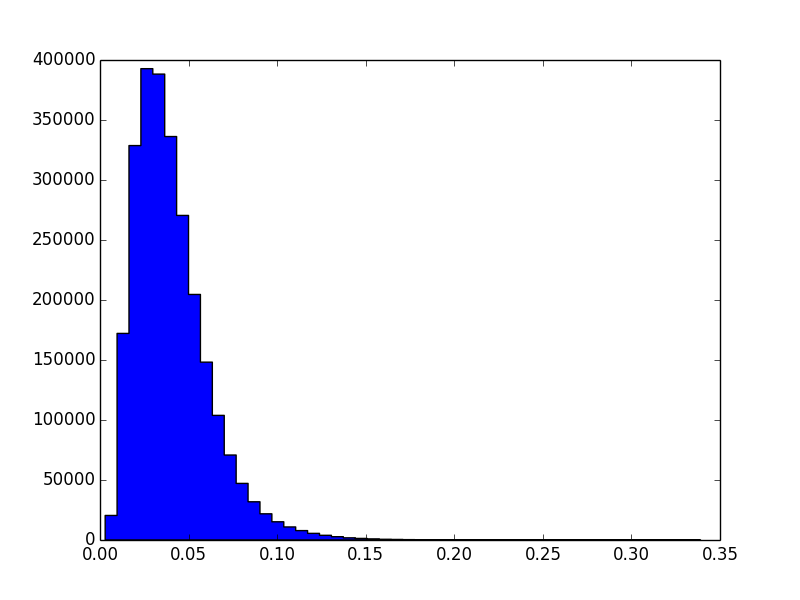
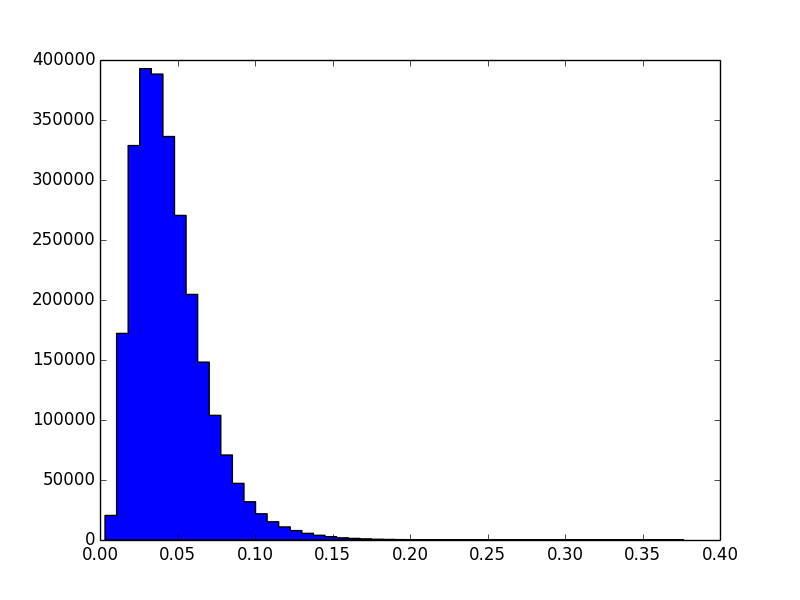
debugging sigma_opt, btfutil.py, and new images
sigma_opt.py:
    added debugging cutoffs. Now only reads up to DEBUG_MAXLINES lines of
    data (less if the files are shorter). See "dispAvgDistHist.py" for
    usage.

btfutil.py:
    A python version of BTFUtil.java from biosim2. Handles parsing
    directories for btf files, and delayed loading of data. Currently,
    data is loaded as list-of-lines, as text. Considering moving to
    numpy arrays in future.

dispAvgDistHist.py:
    Updated to use new btfutil and sigma_opt DEBUG code, now checks to see
    if the weighted data exists as btf columns before recomputing it from
    nvec, nori, and wallvec. Also now correctly ignores lines for which
    dbool is false.

diff --git a/sigma_opt.py b/sigma_opt.py
@@ -12,6 +12,8 @@ memoized = {}
 
 wait_time = 5.0 # in seconds
 
+DEBUG_MAXLINES = -1
+
 def load_data(nvec_fname, nori_fname, obs_fname, b_fname):
 	global DATA_neighbor_x, DATA_neighbor_y, DATA_neighbor_ori, DATA_obs_vec, DATA_b
 	DATA_neighbor_y = list()
@@ -20,7 +22,7 @@ def load_data(nvec_fname, nori_fname, obs_fname, b_fname):
 	DATA_obs_vec = list()
 	DATA_b = list()
 	print "Loading",nvec_fname
-	lines = open(nvec_fname).readlines()
+	lines = open(nvec_fname).readlines()[:DEBUG_MAXLINES]
 	num_lines = len(lines)
 	last_checked = time.time()
 	last_line_idx = 0
@@ -36,7 +38,7 @@ def load_data(nvec_fname, nori_fname, obs_fname, b_fname):
 			last_checked = cur_time
 			last_line_idx = idx
 	print "Loading", nori_fname
-	lines = open(nori_fname).readlines()
+	lines = open(nori_fname).readlines()[:DEBUG_MAXLINES]
 	num_lines = len(lines)
 	last_checked = time.time()
 	last_line_idx = 0
@@ -49,11 +51,29 @@ def load_data(nvec_fname, nori_fname, obs_fname, b_fname):
 			last_checked = cur_time
 			last_line_idx = idx
 	print "Loading",obs_fname
-	DATA_obs_vec = numpy.array([map(float,l.split()) for l in open(obs_fname).readlines()])
+	DATA_obs_vec = numpy.array([map(float,l.split()) for l in open(obs_fname).readlines()[:DEBUG_MAXLINES]])
 	print "Loading",b_fname
-	DATA_b = numpy.array([map(float,l.split()) for l in open(b_fname).readlines()])
+	DATA_b = numpy.array([map(float,l.split()) for l in open(b_fname).readlines()[:DEBUG_MAXLINES]])
 	print "Done loading"
 
+def filter_dbool(dbool_fname):
+	global DATA_b, DATA_obs_vec, DATA_neighbor_x, DATA_neighbor_y, DATA_neighbor_ori
+	print "Filtering from",dbool_fname
+	filt = map(lambda x: x.strip() == 'True', open(dbool_fname).readlines()[:DEBUG_MAXLINES])
+	print "filtering DATA_b"
+	# DATA_b = DATA_b[filt]
+	DATA_b = numpy.array(filter(lambda d: not(d is None), map(lambda foo,bar: bar if foo else None, filt, DATA_b)))
+	print "filtering DATA_obs_vec"
+	# DATA_obs_vec = DATA_obs_vec[filt]
+	DATA_obs_vec = numpy.array(filter(lambda d: not(d is None), map(lambda foo,bar: bar if foo else None, filt, DATA_obs_vec)))
+	print "filtering DATA_neighbor_x"
+	DATA_neighbor_x = filter(lambda d: not(d is None), map(lambda foo,bar: bar if foo else None, filt, DATA_neighbor_x))
+	print "filtering DATA_neighbor_y"
+	DATA_neighbor_y = filter(lambda d: not(d is None), map(lambda foo,bar: bar if foo else None, filt, DATA_neighbor_y))
+	print "filtering DATA_neighbor_ori"
+	DATA_neighbor_ori = filter(lambda d: not(d is None), map(lambda foo,bar: bar if foo else None, filt, DATA_neighbor_ori))
+	print "Done filtering"
+	# print map(len, [DATA_neighbor_x, DATA_neighbor_y, DATA_neighbor_ori, DATA_obs_vec, DATA_b] )
 
 def rotate(x,y,theta):
 	x=float(x)
@@ -63,26 +83,44 @@ def rotate(x,y,theta):
 	yprime = (x*math.sin(theta))+(y*math.cos(theta))
 	return xprime,yprime
 
+def weightedData(sigmas):
+	sep_sigma, ori_sigma, coh_sigma, wall_sigma = sigmas
+	num_lines = len(DATA_neighbor_x)
+	xs = DATA_neighbor_x
+	ys = DATA_neighbor_y
+
+	sep_weights = map(lambda x,y: weights(x,y,sep_sigma), xs, ys)
+	ori_weights = map(lambda x,y: weights(x,y,ori_sigma), xs, ys)
+	coh_weights = map(lambda x,y: weights(x,y,coh_sigma), xs, ys)
+	wall_weights = map(lambda x,y: weights(x,y,wall_sigma), DATA_obs_vec[:,0], DATA_obs_vec[:,1])
+
+	sep = map(sep_vec,sep_weights,xs,ys)
+	ori = map(ori_vec,ori_weights,DATA_neighbor_ori)
+	coh = map(sep_vec,coh_weights,xs,ys)
+	obs = map(lambda weight, x, y: (weight*x,weight*y),wall_weights,DATA_obs_vec[:,0],DATA_obs_vec[:,1])
+	return sep, ori, coh, obs
+
 def optimize(sigmas):
 	global num_evals, memoized
 	num_evals = num_evals+1
 	print "Eval #"+str(num_evals), "Testing sigmas:",sigmas
 	if tuple(sigmas) in memoized:
 		return memoized[tuple(sigmas)]
-	sep_sigma, ori_sigma, coh_sigma, wall_sigma = sigmas
-	num_lines = len(DATA_neighbor_x)
-	xs = DATA_neighbor_x
-	ys = DATA_neighbor_y
+	# sep_sigma, ori_sigma, coh_sigma, wall_sigma = sigmas
+	# num_lines = len(DATA_neighbor_x)
+	# xs = DATA_neighbor_x
+	# ys = DATA_neighbor_y
 
-	sep_weights = map(weights,xs,ys,(sep_sigma,)*num_lines)
-	ori_weights = map(weights,xs,ys,(ori_sigma,)*num_lines)
-	coh_weights = map(weights,xs,ys,(coh_sigma,)*num_lines)
-	wall_weights = map(weights,DATA_obs_vec[:,0],DATA_obs_vec[:,1],(wall_sigma,)*num_lines)
+	# sep_weights = map(weights,xs,ys,(sep_sigma,)*num_lines)
+	# ori_weights = map(weights,xs,ys,(ori_sigma,)*num_lines)
+	# coh_weights = map(weights,xs,ys,(coh_sigma,)*num_lines)
+	# wall_weights = map(weights,DATA_obs_vec[:,0],DATA_obs_vec[:,1],(wall_sigma,)*num_lines)
 
-	sep = map(sep_vec,sep_weights,xs,ys)
-	ori = map(ori_vec,ori_weights,DATA_neighbor_ori)
-	coh = map(sep_vec,coh_weights,xs,ys)
-	obs = map(lambda weight, x, y: (weight*x,weight*y),wall_weights,DATA_obs_vec[:,0],DATA_obs_vec[:,1])
+	# sep = map(sep_vec,sep_weights,xs,ys)
+	# ori = map(ori_vec,ori_weights,DATA_neighbor_ori)
+	# coh = map(sep_vec,coh_weights,xs,ys)
+	# obs = map(lambda weight, x, y: (weight*x,weight*y),wall_weights,DATA_obs_vec[:,0],DATA_obs_vec[:,1])
+	sep, ori, coh, obs = weightedData(sigmas)
 
 	b = DATA_b
 
@@ -116,36 +154,55 @@ class bounds(object):
 def nullmin(fun,x0,args, **kwargs):
 	return scipy.optimize.OptimizeResult(x=x0,success=True)
 
+def second_order_poly(data):
+	num_columns = data.shape[1]
+	res = list()
+	for eye in range(num_columns):
+		for jay in range(num_columns):
+			res.append(data[:,eye]*data[:,jay])
+	return res
+
 
 def runLR(sigmas):
 	sep_sigma, ori_sigma, coh_sigma, wall_sigma = sigmas
-	num_lines = len(DATA_neighbor_x)
-	xs = DATA_neighbor_x
-	ys = DATA_neighbor_y
+	# num_lines = len(DATA_neighbor_x)
+	# xs = DATA_neighbor_x
+	# ys = DATA_neighbor_y
 
-	sep_weights = map(weights,xs,ys,(sep_sigma,)*num_lines)
-	ori_weights = map(weights,xs,ys,(ori_sigma,)*num_lines)
-	coh_weights = map(weights,xs,ys,(coh_sigma,)*num_lines)
-	wall_weights = map(weights,DATA_obs_vec[:,0],DATA_obs_vec[:,1],(wall_sigma,)*num_lines)
+	# sep_weights = map(weights,xs,ys,(sep_sigma,)*num_lines)
+	# ori_weights = map(weights,xs,ys,(ori_sigma,)*num_lines)
+	# coh_weights = map(weights,xs,ys,(coh_sigma,)*num_lines)
+	# wall_weights = map(weights,DATA_obs_vec[:,0],DATA_obs_vec[:,1],(wall_sigma,)*num_lines)
 
-	sep = map(sep_vec,sep_weights,xs,ys)
-	ori = map(ori_vec,ori_weights,DATA_neighbor_ori)
-	coh = map(sep_vec,coh_weights,xs,ys)
-	obs = map(lambda weight, x, y: (weight*x,weight*y),wall_weights,DATA_obs_vec[:,0],DATA_obs_vec[:,1])
+	# sep = map(sep_vec,sep_weights,xs,ys)
+	# ori = map(ori_vec,ori_weights,DATA_neighbor_ori)
+	# coh = map(sep_vec,coh_weights,xs,ys)
+	# obs = map(lambda weight, x, y: (weight*x,weight*y),wall_weights,DATA_obs_vec[:,0],DATA_obs_vec[:,1])
 
+	# b = DATA_b
+	data_list = list(weightedData(sigmas))
+	print "Adding 2nd order poly features"
+	data_list += second_order_poly(numpy.column_stack(data_list))
 	b = DATA_b
-	return numpy.linalg.lstsq(numpy.column_stack([sep,ori,coh,obs,numpy.ones((len(sep),1))]),b)
+	# return numpy.linalg.lstsq(numpy.column_stack([sep,ori,coh,obs,numpy.ones((len(sep),1))]),b)
+	data_list.append(numpy.ones(b.shape[0]))
+	# print map(len,data_list)
+	return numpy.linalg.lstsq(numpy.column_stack(data_list),b)
 
 if __name__ == '__main__':
+	# global DEBUG_MAXLINES
+	# DEBUG_MAXLINES=200
+	# print "DEBUG_MAXLINES=",DEBUG_MAXLINES
 	load_data(sys.argv[1],sys.argv[2],sys.argv[3],sys.argv[4])
-	print "Optimizing sigmas"
-	bnds = bounds()
-	results = scipy.optimize.basinhopping(optimize,[0.1,1.5,1.5,0.1], niter=100)
-	print "Opt Results"
-	print results
-	cPickle.dump(results,open("sopt-results.p","w"))	
-	best_sigmas = results.x
-	# best_sigmas = numpy.array([0.1,1.5,1.5,0.1])
+	filter_dbool(sys.argv[5])
+	# print "Optimizing sigmas"
+	# bnds = bounds()
+	# results = scipy.optimize.basinhopping(optimize,[0.1,1.5,1.5,0.1], niter=100)
+	# print "Opt Results"
+	# print results
+	# cPickle.dump(results,open("sopt-results.p","w"))	
+	# best_sigmas = results.x
+	best_sigmas = numpy.array([0.1,1.5,1.5,1.5])
 	print "Running LR on sigmas:",best_sigmas
 	lr_results = runLR(best_sigmas)
 	print "LR Results"

diff --git a/dispAvgDistHist.py b/dispAvgDistHist.py
@@ -1,22 +1,56 @@
-import numpy, scipy, matplotlib.pyplot as plt, sys
+import numpy, scipy, matplotlib.pyplot as plt, sys, glob
 import sigma_opt
+import btfutil
 from scipy.spatial import cKDTree
 
-def main(nvec_fname, nori_fname, obs_fname, dvel_fname, dbool_fname):
-	print "Loading data"
-	sigma_opt.load_data(nvec_fname, nori_fname, obs_fname, dvel_fname)
-	print "Filtering data"
-	sigma_opt.filter(dbool_fname)
-	print "Weighting data"
-	data = numpy.array(sigma_opt.weightedData([0.1,1.5,1.5,1.5]))
+# def main2(rbfsep_fname, rbfori_fname, rbfcoh_fname, rbfwall_fname):
+# 	rbfsep = [line.split() for line in open(rbfsep_fname).readlines()]
+# 	rbfori = [line.split() for line in open(rbfori_fname).readlines()]
+# 	rbfcoh = [line.split() for line in open(rbfcoh_fname).readlines()]
+# 	rbfwall = [line.split() for line in open(rbfwall_fname).readlines()]
+# 	return numpy.column_stack([rbfsep,rbfori,rbfcoh,rbfwall])
+
+# def main(nvec_fname, nori_fname, obs_fname, dvel_fname, dbool_fname):
+# def main(rbfsep_fname, rbfori_fname, rbfcoh_fname, rbfwall_fname):
+def main(btfdata):
+	# print "DEBUG: MAXLINES=200"
+	# sigma_opt.DEBUG_MAXLINES = 200
+	data = None
+	if btfdata.has_columns(['rbfsepvec','rbforivec','rbfcohvec','rbfwallvec']):
+		rawdata = numpy.column_stack([\
+			[line.split() for line in btfdata['rbfsepvec']],\
+			[line.split() for line in btfdata['rbforivec']],\
+			[line.split() for line in btfdata['rbfcohvec']],\
+			[line.split() for line in btfdata['rbfwallvec']]])
+		data = rawdata[[line.capitalize() == 'True' for line in btfdata['dbool']]]
+	else:
+		sigma_opt.load_data(\
+			btfdata.column_filenames['nvec'],\
+			btfdata.column_filenames['nori'],\
+			btfdata.column_filenames['wallvec'],\
+			btfdata.column_filenames['dvel'])
+		sigma_opt.filter_dbool(btfdata.column_filenames['dbool'])
+		print "Weighting data"
+		data = numpy.column_stack(sigma_opt.weightedData([0.1,1.5,1.5,1.5]))
 	print "Filling KDT"
-	knn = cKDTree(features)
+	knn = cKDTree(data)
 	print "Computing avg NN distance"
-	dists = numpy.array([knn.query(row,k=10)[0].mean() for row in data])
+	# So aparantly query returns the neighbors in sorted order
+	# so we should be able to get the distances excluding the point
+	# itself by ignoring the first column
+	# queries = numpy.array([knn.query(row,k=10)[0][1:] for row in data])
+	dists = numpy.array([knn.query(row,k=10)[0][1:].mean() for row in data])
 	print "Plotting"
 	plt.hist(dists,bins=50,histtype='stepfilled')
 	plt.show()
+	print "Mean", dists.mean()
+	print "Std. dev", dists.std()
 
 if __name__ == '__main__':
-	main(sys.argv[1], sys.argv[2], sys.argv[3], sys.argv[4], sys.argv[5])
-	raw_input("Hit enter to close")
+	# main(sys.argv[1], sys.argv[2], sys.argv[3], sys.argv[4], sys.argv[5])
+	# main(sys.argv[1], sys.argv[2], sys.argv[3], sys.argv[4])
+	data = btfutil.BTF()
+	data.import_from_dir(sys.argv[1])
+	main(data)
+	# older version of matplotlib didn't hold the graph unless I added this line
+	# raw_input("Hit enter to close")

diff --git a/btfutil.py b/btfutil.py
@@ -1,0 +1,44 @@
+import glob, os.path, string
+
+class BTF:
+	def __init__(self):
+		self.column_filenames = dict()
+		self.column_data = dict()
+
+	def import_from_dir(self,dirname):
+		new_columns = glob.glob(os.path.join(dirname,'*.btf'))
+		for column in new_columns:
+			cname = os.path.basename(column)[:-4]
+			self.column_filenames[cname] = column
+
+	def load_column(self,cname):
+		if cname in self.column_filenames:
+			self.column_data[cname] = map(string.strip, open(self.column_filenames[cname]).readlines())
+			return True
+		return False
+
+	def load_columns(self,cnames):
+		return {k: self.load_column(k) for k in cnames}
+
+	def load_all_columns(self):
+		return self.load_columns(self.column_filenames.keys())
+
+	def has_columns(self,cnames):
+		for c in cnames:
+			if not(c in self):
+				return False
+		return True
+
+	def __contains__(self,key):
+		return key in self.column_filenames
+
+	def __getitem__(self,key):
+		if not(self.__contains__(key)):
+			raise KeyError("No column named ["+str(key)+"]")
+		if key in self.column_data:
+			return self.column_data[key]
+		else:
+			if self.load_column(key):
+				return self.column_data[key]
+			else:
+				raise KeyError("Could not load BTF column: ("+str(key)+","+str(self.column_filenames[key])+")")
